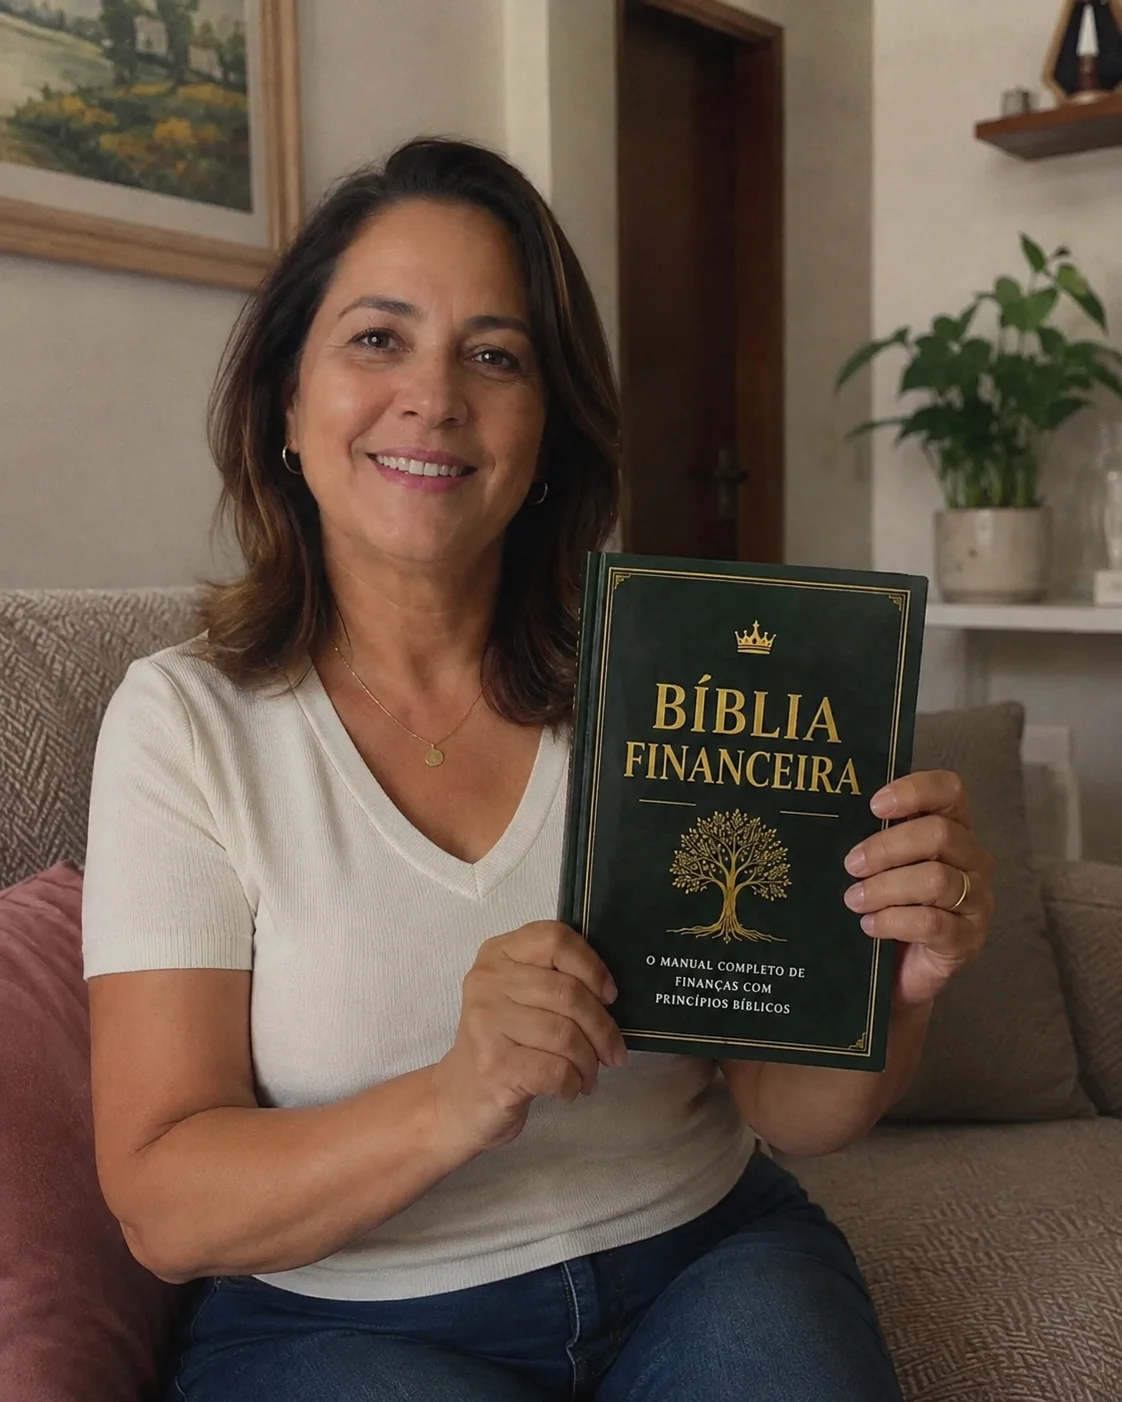
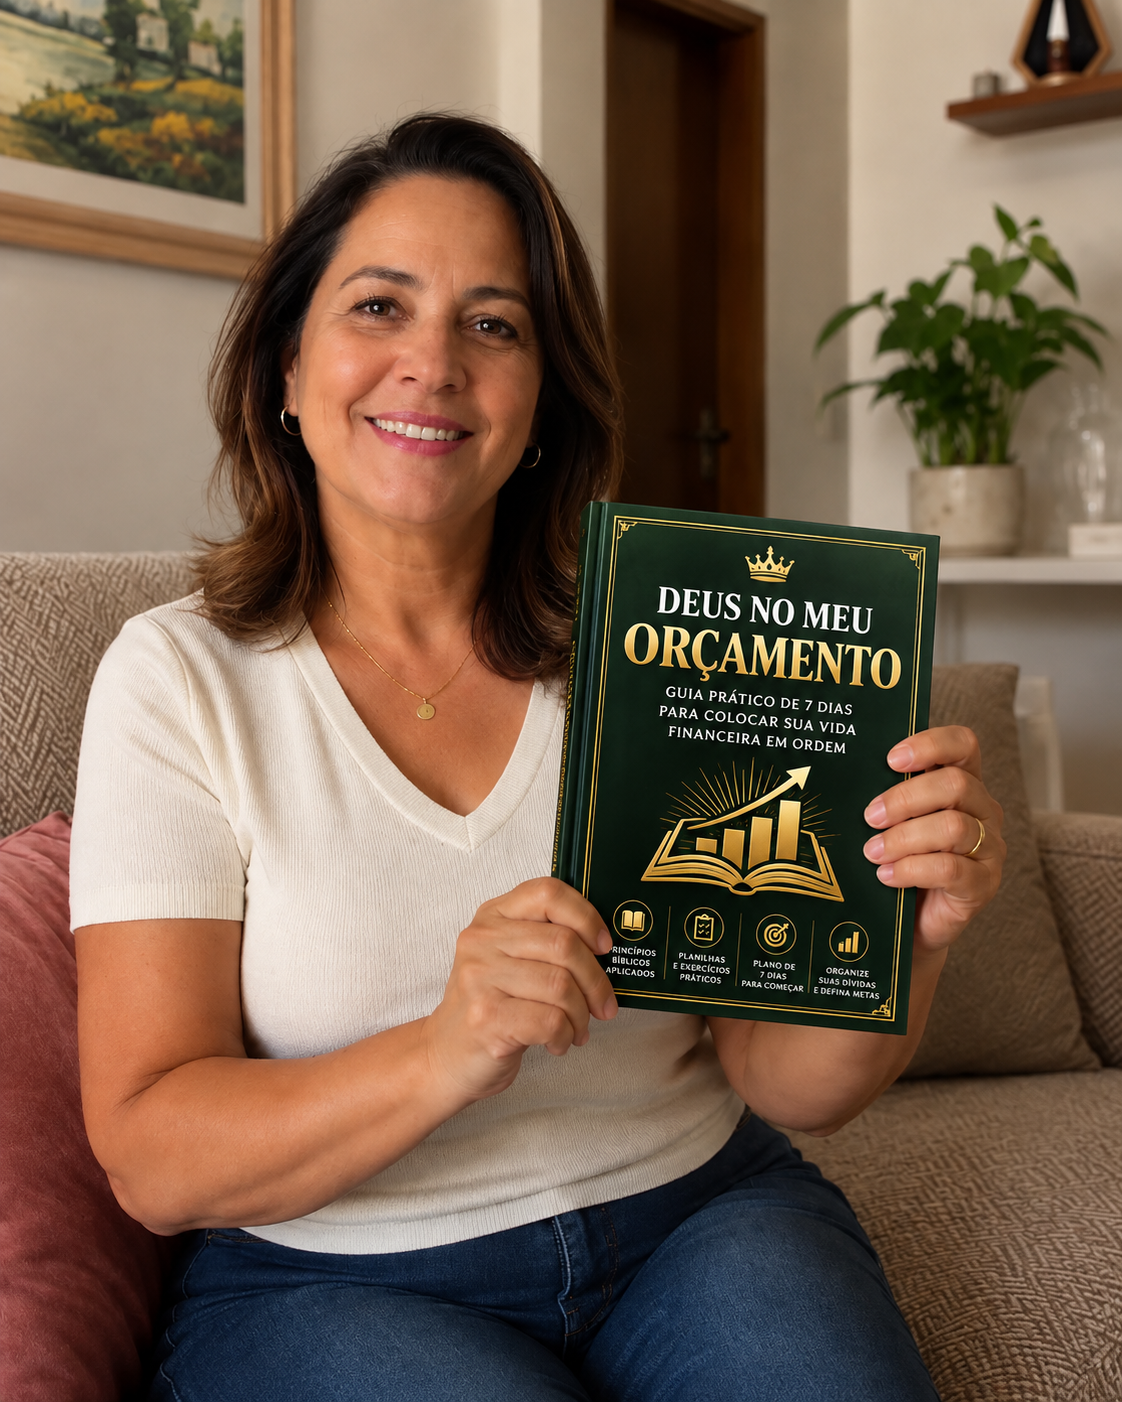
Add files via upload

diff --git a/index.html b/index.html
@@ -964,6 +964,24 @@ body {
 }
 
 </style>
+  <!-- Meta Pixel Code -->
+  <script>
+    !function(f,b,e,v,n,t,s)
+    {if(f.fbq)return;n=f.fbq=function(){n.callMethod?
+    n.callMethod.apply(n,arguments):n.queue.push(arguments)};
+    if(!f._fbq)f._fbq=n;n.push=n;n.loaded=!0;n.version='2.0';
+    n.queue=[];t=b.createElement(e);t.async=!0;
+    t.src=v;s=b.getElementsByTagName(e)[0];
+    s.parentNode.insertBefore(t,s)}(window, document,'script',
+    'https://connect.facebook.net/en_US/fbevents.js');
+    fbq('init', '1622256505781426');
+    fbq('track', 'PageView');
+  </script>
+  <noscript>
+    <img height="1" width="1" style="display:none"
+         src="https://www.facebook.com/tr?id=1622256505781426&ev=PageView&noscript=1"/>
+  </noscript>
+  <!-- End Meta Pixel Code -->
 </head>
 
 <body>
@@ -978,10 +996,9 @@ body {
   <div class="container hero-grid">
     <div class="hero-copy">
       <div class="kicker">DEUS NO MEU ORÇAMENTO</div>
-      <h1>Dinheiro com<br><span>propósito divino.</span></h1>
+      <h1>Coloque suas dívidas em ordem<br><span>sem deixar sua fé de fora.</span></h1>
       <p class="hero-sub">
-        O que Deus realmente diz sobre dinheiro, trabalho, dívidas e prosperidade,
-        transformado em um manual prático para a sua vida financeira real.
+        Um guia prático de 7 dias para você enxergar suas dívidas, organizar seus gastos e começar um plano financeiro baseado em princípios bíblicos.
       </p>
 
       <div class="hero-tags">
@@ -991,11 +1008,11 @@ body {
         <span>Exercícios</span>
       </div>
 
-      <a href="#precos" class="btn btn-gold">QUERO O GUIA DE 7 DIAS</a>
+      <a href="#precos" class="btn btn-gold">QUERO COMEÇAR A ORGANIZAR MINHAS FINANÇAS</a>
     </div>
 
     <div class="hero-cover">
-      <img src="capa.webp" alt="Capa da Bíblia Financeira">
+      <img src="capa.webp" alt="Capa Deus no Meu Orçamento">
     </div>
   </div>
 </section>
@@ -1076,7 +1093,7 @@ body {
 <section class="section">
   <div class="container intro-grid">
     <div class="intro-cover">
-      <img src="capa2.webp" alt="Bíblia Financeira">
+      <img src="capa2.webp" alt="Deus no Meu Orçamento - Guia Prático de 7 Dias">
     </div>
 
     <div class="intro-copy">
@@ -1365,7 +1382,7 @@ body {
           <li>Plano prático de 90 dias</li>
         </ul>
 
-        <a href="https://go.pepperpay.com.br/zflrt" id="btn-digital-990" class="btn btn-gold">QUERO A VERSÃO DIGITAL</a>
+        <a href="javascript:void(0);" id="btn-digital-990" class="btn btn-gold" role="button">QUERO A VERSÃO DIGITAL</a>
       </article>
 
       <article class="price-card featured">
@@ -1384,7 +1401,7 @@ body {
           <li>Plano estruturado de 90 dias de restauração</li>
         </ul>
 
-        <a href="#CHECKOUT_19_90_AQUI" class="btn btn-gold">QUERO A VERSÃO COMPLETA</a>
+        <a href="https://go.pepperpay.com.br/zflrt?oferta=completa_1990" class="btn btn-gold">QUERO A VERSÃO COMPLETA</a>
       </article>
     
     <div class="trust-badges-bar">
@@ -1503,7 +1520,7 @@ body {
       <div class="new">R$ 17<small>,90</small></div>
     </div>
 
-    <a href="#CHECKOUT_17_90_AQUI" id="modal-cta-1790" class="upgrade-btn-yes">
+    <a href="https://go.pepperpay.com.br/zflrt?oferta=completa_1790" id="modal-cta-1790" class="upgrade-btn-yes">
       SIM! QUERO A VERSÃO COMPLETA POR R$ 17,90
     </a>
 
@@ -1522,7 +1539,9 @@ body {
   if (btnDigital && popup) {
     btnDigital.addEventListener('click', function(e) {
       e.preventDefault();
+      e.stopPropagation();
       popup.classList.add('active');
+      return false;
     });
   }
 
@@ -1566,6 +1585,88 @@ body {
   }
   updateTimer();
   setInterval(updateTimer, 1000);
+})();
+</script>
+
+<script>
+(function() {
+  // --- CAPTURA E REPASSE DE UTMS, FBCLID, _FBP, _FBC ---
+  var params = new URLSearchParams(window.location.search);
+  var trackingKeys = ['utm_source', 'utm_medium', 'utm_campaign', 'utm_content', 'utm_term', 'src', 'sck', 'fbclid'];
+  var storedParams = {};
+
+  // Recupera do storage ou lê da URL
+  trackingKeys.forEach(function(key) {
+    var val = params.get(key);
+    if (val) {
+      storedParams[key] = val;
+      try { sessionStorage.setItem('dno_' + key, val); } catch(e) {}
+    } else {
+      try {
+        var saved = sessionStorage.getItem('dno_' + key);
+        if (saved) storedParams[key] = saved;
+      } catch(e) {}
+    }
+  });
+
+  // Captura / constrói _fbc a partir de fbclid se existir
+  function getCookie(name) {
+    var m = document.cookie.match(new RegExp('(^|; )' + name + '=([^;]+)'));
+    return m ? m[2] : null;
+  }
+  var fbp = getCookie('_fbp');
+  var fbc = getCookie('_fbc');
+  if (!fbc && storedParams['fbclid']) {
+    fbc = 'fb.1.' + (+new Date()) + '.' + storedParams['fbclid'];
+  }
+  if (fbp) storedParams['_fbp'] = fbp;
+  if (fbc) storedParams['_fbc'] = fbc;
+
+  // Garante sck / src
+  if (!storedParams['sck'] && storedParams['utm_campaign']) {
+    storedParams['sck'] = storedParams['utm_campaign'];
+  }
+  if (!storedParams['src'] && storedParams['utm_source']) {
+    storedParams['src'] = storedParams['utm_source'];
+  }
+
+  // Decora links de checkout ao clicar ou carregar
+  function decorateUrl(urlStr) {
+    if (!urlStr || urlStr.indexOf('http') !== 0) return urlStr;
+    try {
+      var u = new URL(urlStr);
+      Object.keys(storedParams).forEach(function(k) {
+        if (!u.searchParams.has(k) && storedParams[k]) {
+          u.searchParams.set(k, storedParams[k]);
+        }
+      });
+      return u.toString();
+    } catch(e) {
+      return urlStr;
+    }
+  }
+
+  function decorateAllCheckoutLinks() {
+    var links = document.querySelectorAll('a[href]');
+    links.forEach(function(a) {
+      var href = a.getAttribute('href');
+      if (href && (href.indexOf('pepperpay.com.br') !== -1 || href.indexOf('cakto.com.br') !== -1 || href.indexOf('kiwify.com.br') !== -1 || href.indexOf('hotmart.com') !== -1)) {
+        a.href = decorateUrl(href);
+      }
+    });
+  }
+
+  // Executa na carga e em cliques
+  decorateAllCheckoutLinks();
+  document.addEventListener('click', function(e) {
+    var a = e.target.closest('a');
+    if (!a) return;
+    var href = a.getAttribute('href');
+    if (href && (href.indexOf('pepperpay.com.br') !== -1 || href.indexOf('cakto.com.br') !== -1 || href.indexOf('kiwify.com.br') !== -1 || href.indexOf('hotmart.com') !== -1)) {
+      a.href = decorateUrl(a.href);
+      // NENHUM InitiateCheckout aqui: tracking de IC fica 100% nativo no checkout (Cakto)
+    }
+  }, true);
 })();
 </script>
 
